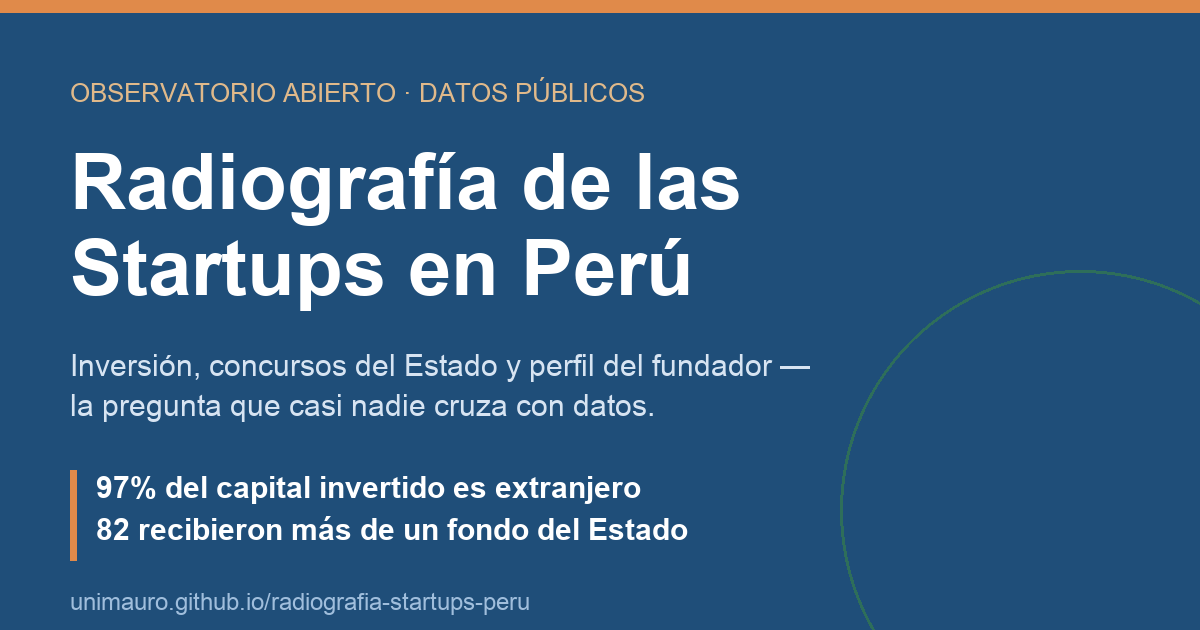
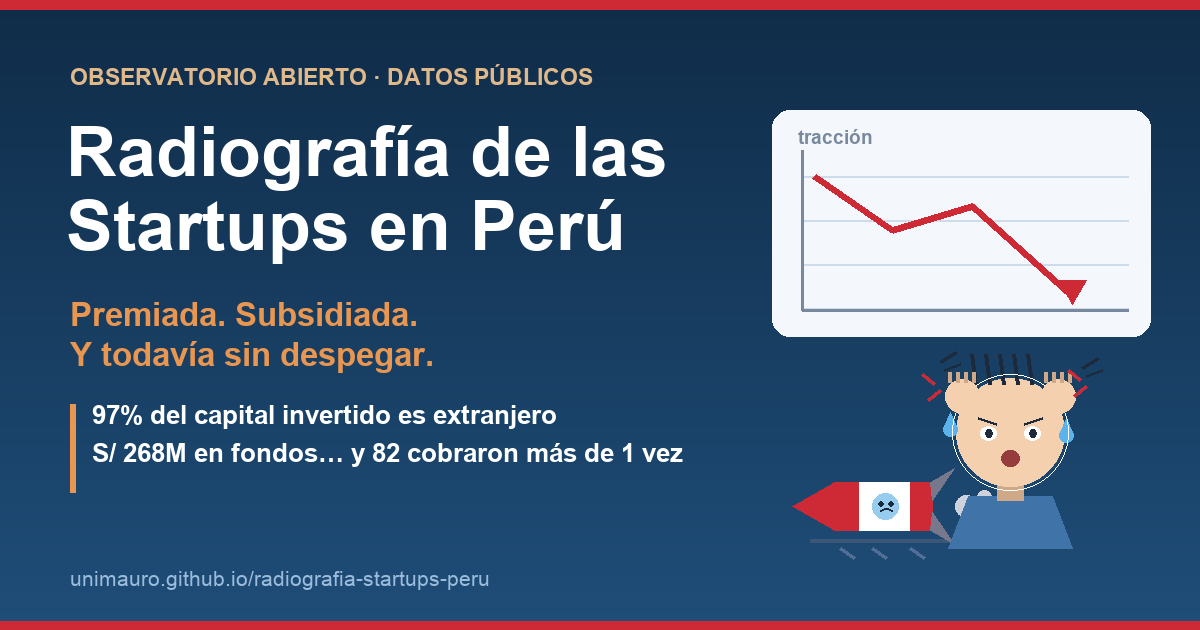
OG rediseñado: sarcástico y peruano (fundador jalándose los pelos, cohete con bandera del Perú que no despega, gráfica de tracción cayendo) + cache-bust ?v=2

diff --git a/index.html b/index.html
@@ -20,12 +20,12 @@
 <meta property="og:title" content="Radiografía de las Startups en Perú">
 <meta property="og:description" content="Observatorio abierto: inversión, concursos del Estado y perfil del fundador — la pregunta que casi nadie cruza con datos.">
 <meta property="og:url" content="https://unimauro.github.io/radiografia-startups-peru/">
-<meta property="og:image" content="https://unimauro.github.io/radiografia-startups-peru/og-image.png">
+<meta property="og:image" content="https://unimauro.github.io/radiografia-startups-peru/og-image.png?v=2">
 <meta property="og:image:width" content="1200"><meta property="og:image:height" content="630">
 <meta name="twitter:card" content="summary_large_image">
 <meta name="twitter:title" content="Radiografía de las Startups en Perú">
 <meta name="twitter:description" content="Inversión, concursos del Estado y perfil del fundador — datos abiertos.">
-<meta name="twitter:image" content="https://unimauro.github.io/radiografia-startups-peru/og-image.png">
+<meta name="twitter:image" content="https://unimauro.github.io/radiografia-startups-peru/og-image.png?v=2">
 <script src="https://cdn.jsdelivr.net/npm/chart.js@4.4.1/dist/chart.umd.min.js"></script>
 <style>
   :root{

diff --git a/scripts/gen_og.py b/scripts/gen_og.py
@@ -1,38 +1,101 @@
 # -*- coding: utf-8 -*-
-"""Genera la imagen Open Graph (1200x630) para compartir en redes."""
+"""Genera la imagen Open Graph (1200x630): tono sarcástico y peruano —
+fundador jalándose los pelos, un cohete con los colores del Perú que no despega,
+y una gráfica que cae. Solo requiere Pillow."""
 from PIL import Image, ImageDraw, ImageFont
 import os
 
 OUT = os.path.join(os.path.dirname(__file__), "..", "og-image.png")
 W, H = 1200, 630
-AZUL2 = (31, 78, 121); NARANJA = (224, 138, 74); BLANCO = (255, 255, 255)
-CLARO = (215, 228, 242); ACENTO = (224, 185, 138)
 
-img = Image.new("RGB", (W, H), AZUL2)
-d = ImageDraw.Draw(img)
+BLUE_T=(16,44,72); BLUE_B=(31,78,121)
+WHITE=(255,255,255); CREAM=(200,220,240)
+ORANGE=(233,150,80); GOLD=(224,185,138)
+RED=(206,42,54)                      # rojo bandera Perú
+SKIN=(244,208,175); SKIN_D=(206,168,135)
+PANEL=(244,248,252); PANEL_LINE=(206,220,234); MUTED=(120,136,158); DARK=(28,42,60)
+SWEAT=(90,180,235)
 
-# franja superior naranja + círculo tenue (cancha/dato)
-d.rectangle([0, 0, W, 12], fill=NARANJA)
-d.ellipse([W-360, H-360, W+120, H+120], outline=(46, 110, 90), width=3)
+img=Image.new("RGB",(W,H),BLUE_T); d=ImageDraw.Draw(img)
+for y in range(H):                                   # degradado vertical
+    t=y/H; d.line([(0,y),(W,y)],fill=tuple(int(BLUE_T[i]+(BLUE_B[i]-BLUE_T[i])*t) for i in range(3)))
+d.rectangle([0,0,W,9],fill=RED); d.rectangle([0,H-9,W,H],fill=RED)   # franjas Perú
 
-def F(sz, bold=True):
-    base = "/System/Library/Fonts/Supplemental/"
-    p = base + ("Arial Bold.ttf" if bold else "Arial.ttf")
-    try: return ImageFont.truetype(p, sz)
+def F(sz,bold=True):
+    base="/System/Library/Fonts/Supplemental/"
+    try: return ImageFont.truetype(base+("Arial Bold.ttf" if bold else "Arial.ttf"),sz)
     except Exception: return ImageFont.load_default()
 
-d.text((70, 78),  "OBSERVATORIO ABIERTO · DATOS PÚBLICOS", font=F(26, False), fill=ACENTO)
-d.text((70, 138), "Radiografía de las", font=F(78), fill=BLANCO)
-d.text((70, 224), "Startups en Perú", font=F(78), fill=BLANCO)
-d.text((70, 348), "Inversión, concursos del Estado y perfil del fundador —", font=F(30, False), fill=CLARO)
-d.text((70, 388), "la pregunta que casi nadie cruza con datos.", font=F(30, False), fill=CLARO)
+def rrect(box,r,fill):
+    x0,y0,x1,y1=box
+    d.rectangle([x0+r,y0,x1-r,y1],fill=fill); d.rectangle([x0,y0+r,x1,y1-r],fill=fill)
+    for cx,cy in [(x0+r,y0+r),(x1-r,y0+r),(x0+r,y1-r),(x1-r,y1-r)]:
+        d.ellipse([cx-r,cy-r,cx+r,cy+r],fill=fill)
 
-# línea de hallazgos destacados
-d.rectangle([70, 470, 76, 560], fill=NARANJA)
-d.text((96, 470), "97% del capital invertido es extranjero", font=F(30), fill=BLANCO)
-d.text((96, 512), "82 recibieron más de un fondo del Estado", font=F(30), fill=BLANCO)
+# ---------------- TEXTO (izquierda) ----------------
+d.text((70,64),"OBSERVATORIO ABIERTO · DATOS PÚBLICOS",font=F(23),fill=GOLD)
+d.text((66,112),"Radiografía de las",font=F(70),fill=WHITE)
+d.text((66,186),"Startups en Perú",font=F(70),fill=WHITE)
+d.text((70,296),"Premiada. Subsidiada.",font=F(33),fill=ORANGE)
+d.text((70,336),"Y todavía sin despegar.",font=F(33),fill=ORANGE)
+d.rectangle([70,404,75,492],fill=ORANGE)
+d.text((92,400),"97% del capital invertido es extranjero",font=F(26),fill=WHITE)
+d.text((92,438),"S/ 268M en fondos… y 82 cobraron más de 1 vez",font=F(26),fill=WHITE)
+d.text((70,566),"unimauro.github.io/radiografia-startups-peru",font=F(21,False),fill=(155,188,220))
 
-d.text((70, 588), "unimauro.github.io/radiografia-startups-peru", font=F(24, False), fill=(160, 190, 220))
+# ---------------- ESCENA CÓMIC (derecha) ----------------
+# --- gráfica que cae ---
+cx0,cy0,cx1,cy1=772,110,1150,336
+rrect([cx0,cy0,cx1,cy1],18,PANEL)
+d.text((cx0+26,cy0+16),"tracción",font=F(19),fill=MUTED)
+for gy in range(cy0+66,cy1-16,44): d.line([(cx0+30,gy),(cx1-22,gy)],fill=PANEL_LINE,width=2)
+d.line([(cx0+30,cy0+40),(cx0+30,cy1-26)],fill=MUTED,width=3)
+d.line([(cx0+30,cy1-26),(cx1-22,cy1-26)],fill=MUTED,width=3)
+pts=[(cx0+42,cy0+66),(cx0+120,cy0+120),(cx0+200,cy0+96),(cx0+300,cy1-40)]  # sube y se desploma
+d.line(pts,fill=RED,width=7,joint="curve")
+ex,ey=pts[-1]                                            # punta de flecha hacia abajo
+d.polygon([(ex-14,ey-16),(ex+14,ey-16),(ex,ey+8)],fill=RED)
 
-img.save(OUT)
-print("Guardado:", OUT, img.size)
+# --- cohete peruano que NO despega (tumbado, chisporroteando) ---
+rx,ry=880,506
+d.line([(rx-70,ry+34),(rx+95,ry+34)],fill=(60,86,120),width=4)   # suelo/thud
+for sx in (rx-40,rx-8,rx+30):                                     # rayitas de golpe
+    d.line([(sx,ry+42),(sx+14,ry+52)],fill=(80,110,150),width=3)
+d.polygon([(rx-46,ry-24),(rx-46,ry+24),(rx-88,ry)],fill=RED)      # cono (izq)
+rrect([rx-46,ry-24,rx+52,ry+24],20,WHITE)                         # cuerpo
+d.rectangle([rx-46,ry-24,rx-22,ry+24],fill=RED)                   # banda roja
+d.rectangle([rx+30,ry-24,rx+52,ry+24],fill=RED)                   # banda roja (bandera r-b-r)
+d.polygon([(rx+50,ry-24),(rx+74,ry-38),(rx+52,ry-6)],fill=(120,120,140))  # aletas
+d.polygon([(rx+50,ry+24),(rx+74,ry+38),(rx+52,ry+6)],fill=(120,120,140))
+d.ellipse([rx-8,ry-13,rx+18,ry+13],fill=(150,205,238))           # ventana
+d.ellipse([rx-2,ry-5,rx+3,ry],fill=DARK); d.ellipse([rx+8,ry-5,rx+13,ry],fill=DARK)  # ojos :(
+d.arc([rx-1,ry+2,rx+13,ry+12],200,340,fill=DARK,width=2)         # boca triste
+for i,(px,py,pr) in enumerate([(rx+86,ry,11),(rx+104,ry-9,7),(rx+104,ry+11,6)]):     # humito (no fuego)
+    d.ellipse([px-pr,py-pr,px+pr,py+pr],fill=(205,210,220))
+
+# --- fundador jalándose los pelos ---
+hx,hy=1010,432; r=54
+d.polygon([(hx-62,548),(hx+62,548),(hx+42,496),(hx-42,496)],fill=(64,116,168))  # camiseta
+d.rectangle([hx-13,472,hx+13,500],fill=SKIN_D)                                  # cuello
+d.ellipse([hx-r,hy-r,hx+r,hy+r],fill=SKIN)                                      # cabeza
+for a in (-34,-20,-6,8,22):                                                     # pelos parados
+    d.line([(hx+a,hy-r+6),(hx+a-4,hy-r-24)],fill=DARK,width=4)
+for fx,fy in [(hx-70,hy-70),(hx+72,hy-64)]:                                     # pelos volando
+    d.line([(fx,fy),(fx+16,fy-10)],fill=DARK,width=3)
+    d.line([(fx+4,fy+8),(fx+20,fy+2)],fill=DARK,width=3)
+d.ellipse([hx-30,hy-6,hx-14,hy+8],fill=WHITE); d.ellipse([hx+14,hy-6,hx+30,hy+8],fill=WHITE)  # ojos
+d.ellipse([hx-25,hy-3,hx-18,hy+5],fill=DARK); d.ellipse([hx+19,hy-3,hx+26,hy+5],fill=DARK)
+d.line([(hx-32,hy-14),(hx-14,hy-8)],fill=DARK,width=3); d.line([(hx+32,hy-14),(hx+14,hy-8)],fill=DARK,width=3)  # cejas
+d.ellipse([hx-9,hy+18,hx+9,hy+34],fill=(150,60,60))            # boca gritando
+for (sx,sy) in [(hx-r-6,hy-8),(hx+r+2,hy-2)]:                  # gotas de sudor
+    d.polygon([(sx,sy-12),(sx-7,sy+4),(sx+7,sy+4)],fill=SWEAT); d.ellipse([sx-7,sy-2,sx+7,sy+12],fill=SWEAT)
+d.ellipse([hx-r-4,hy-r-4,hx+r+4,hy+r+4],outline=None)
+# manos agarrando la cabeza
+for mx,my in [(hx-r+6,hy-r+18),(hx+r-6,hy-r+18)]:
+    d.ellipse([mx-17,my-17,mx+17,my+17],fill=SKIN)
+    for k in range(4): d.line([(mx-12+k*8,my-14),(mx-12+k*8,my-24)],fill=SKIN_D,width=4)
+# marcas de estrés (rojas)
+for (ex2,ey2) in [(hx-r-22,hy-r+6),(hx+r+16,hy-r+2)]:
+    d.line([(ex2,ey2),(ex2-12,ey2-10)],fill=RED,width=3); d.line([(ex2+6,ey2+6),(ex2-6,ey2+16)],fill=RED,width=3)
+
+img.save(OUT); print("Guardado:",OUT,img.size)
